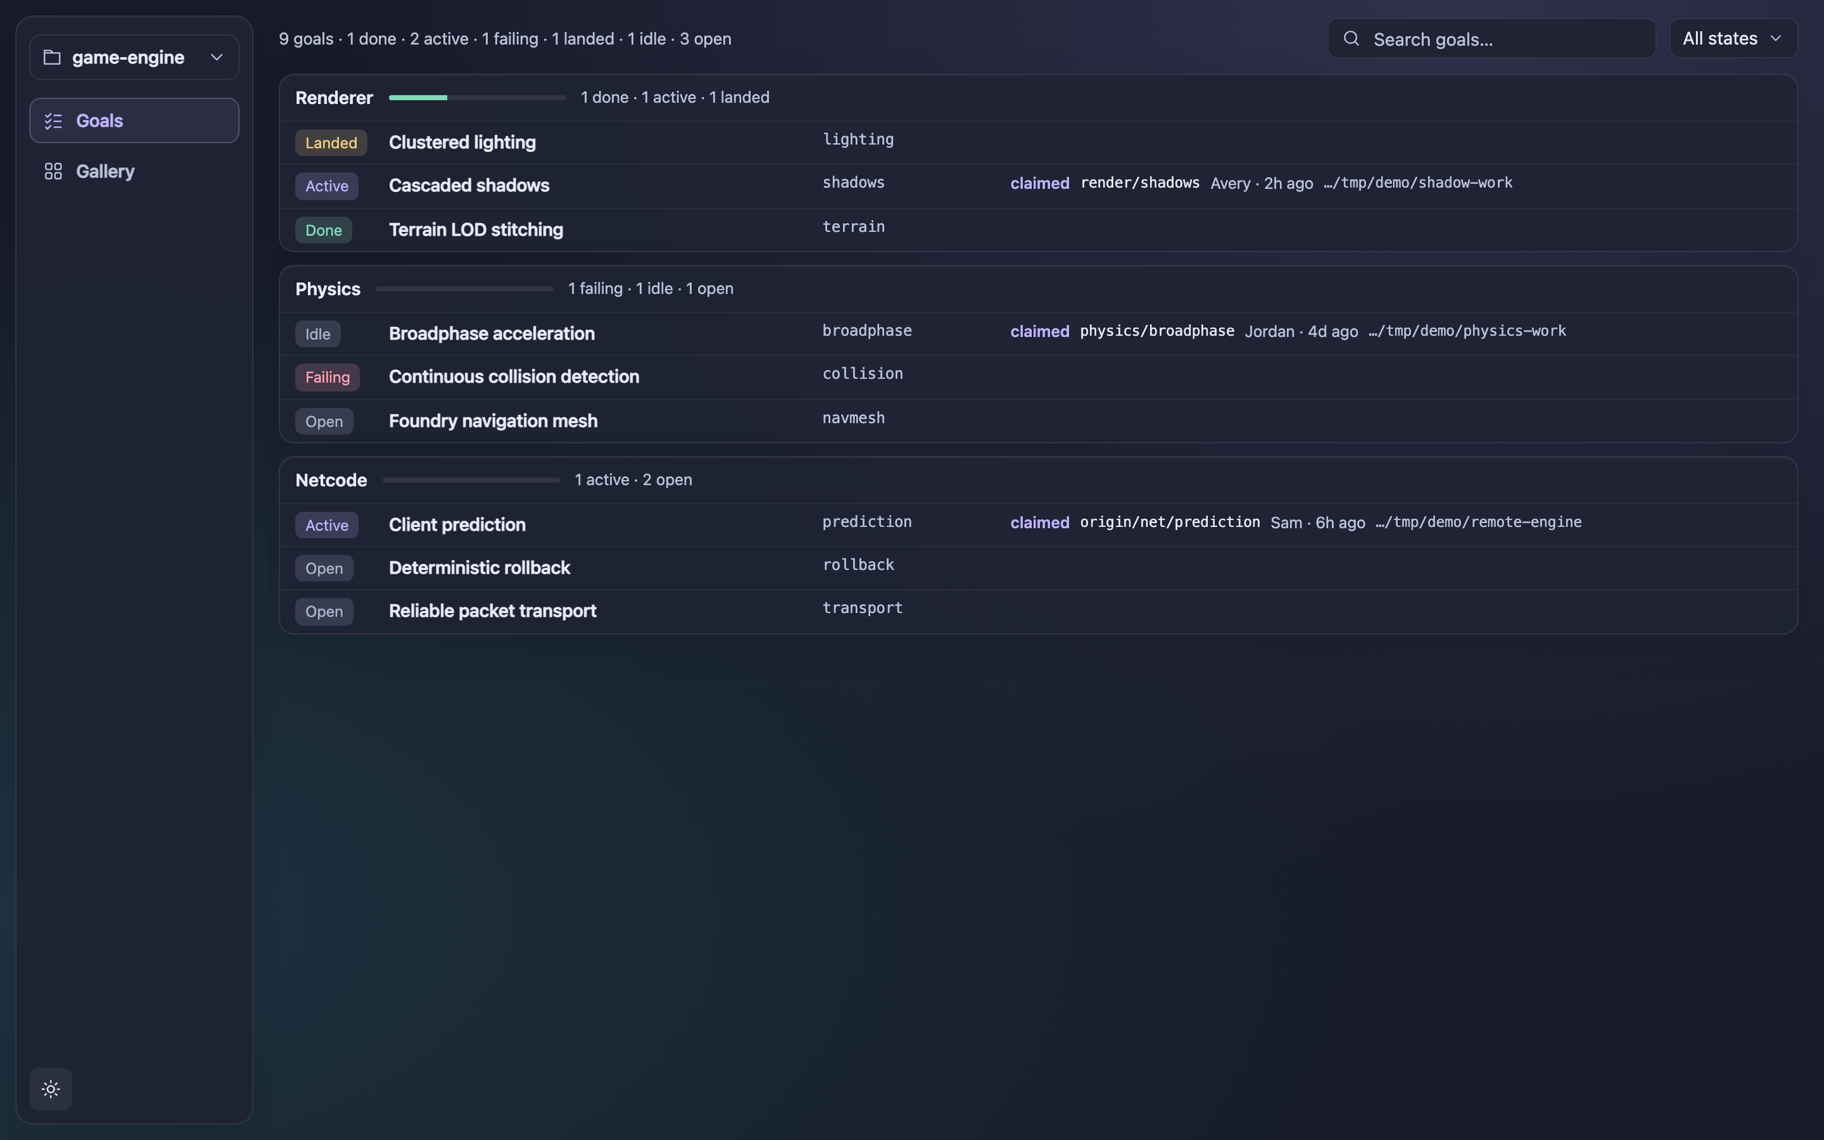
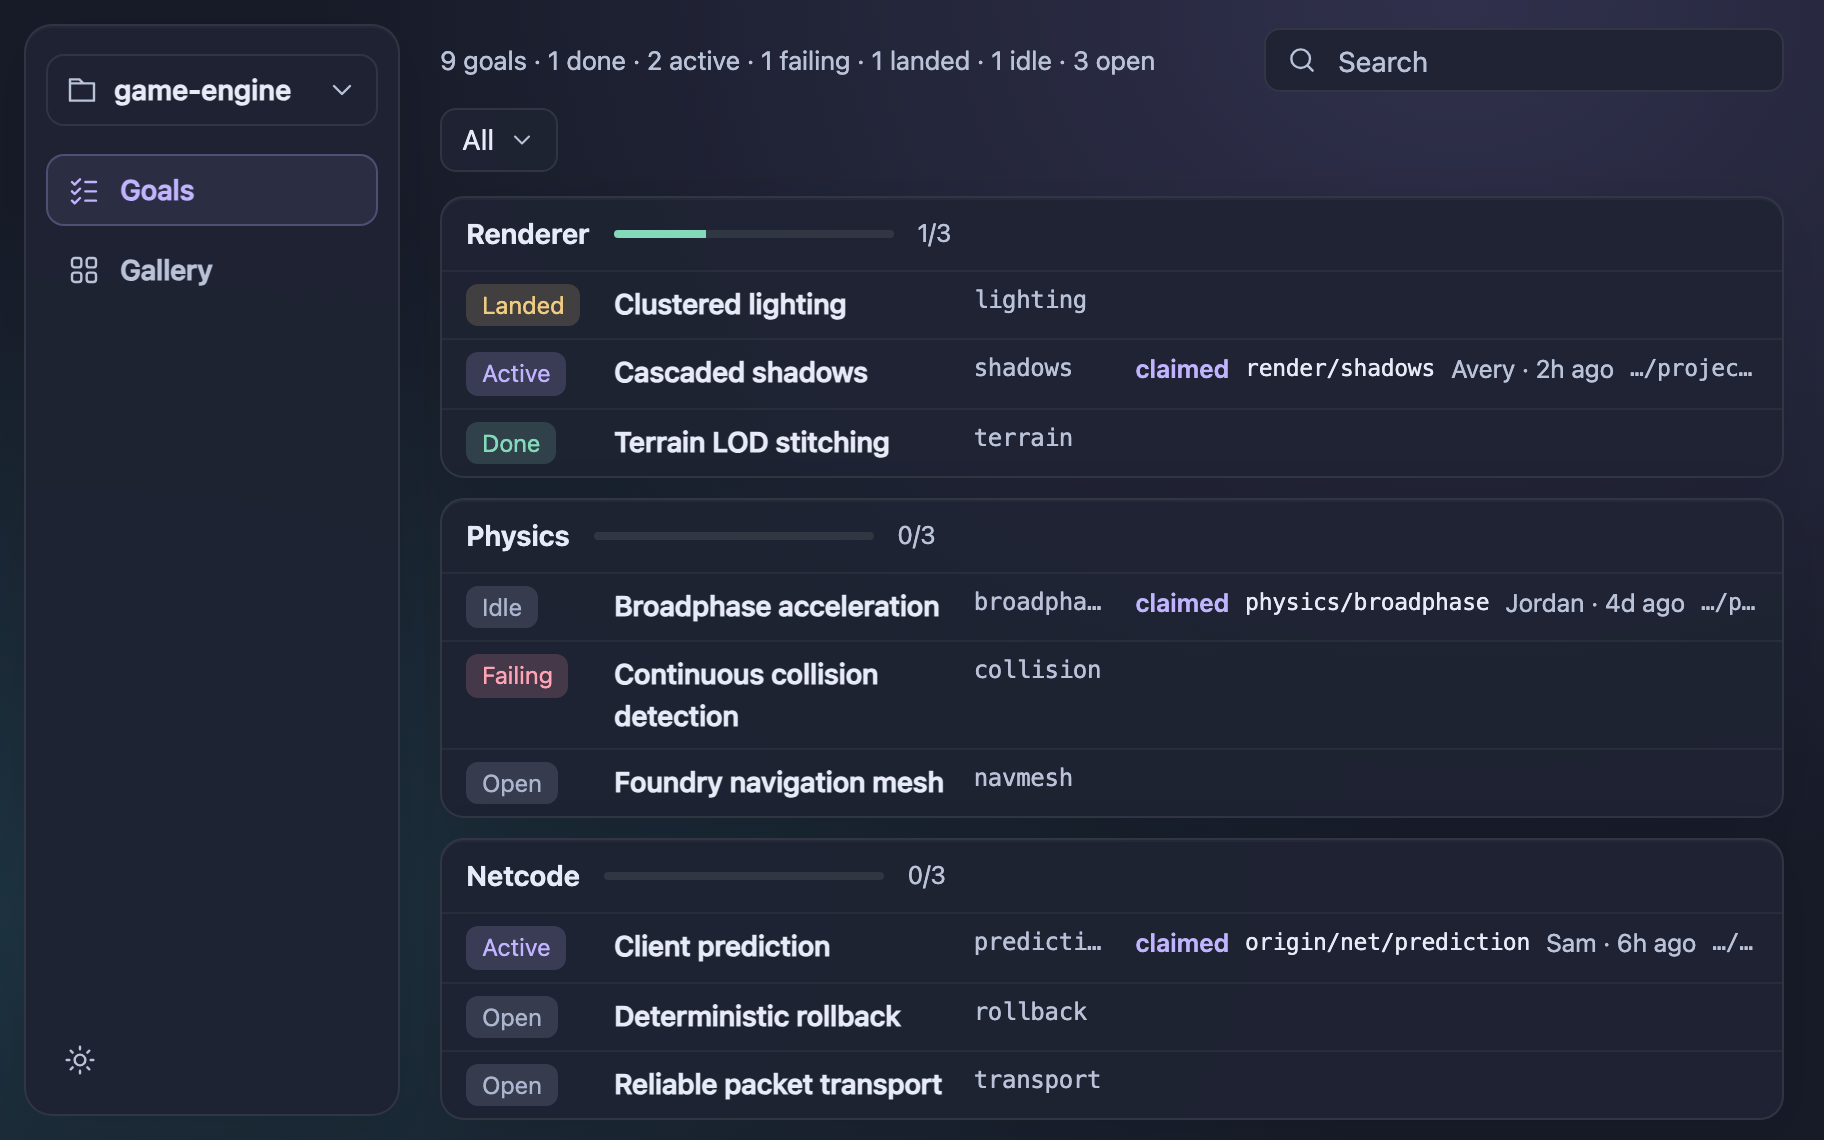
Regenerate screenshots from the sample project; tighten README

diff --git a/README.md b/README.md
@@ -35,14 +35,14 @@ git add .whosaidso
 git commit -m 'Add records'
 ```
 
-Run `whosaidso install-hooks` once in each clone. Then claim a goal with `whosaidso start first-goal`; your commits carry its `Goal:` trailer. After committing work:
+Run `whosaidso install-hooks` once per clone. `whosaidso start first-goal` claims the goal; your commits then carry its `Goal:` trailer. After committing work:
 
 ```sh
 whosaidso goals
 whosaidso prove first-goal
 ```
 
-`prove` runs the check and records the result; commit it with your work. Attach a screenshot or video with `whosaidso media <goal> <file> <title>`.
+`prove` runs the check and records the result; commit it. Attach a screenshot or video with `whosaidso media <goal> <file> <title>`.
 
 ## Code search
 
@@ -55,7 +55,7 @@ whosaidso code deps src/main.cpp
 whosaidso code includers src/types.h
 ```
 
-`find` searches records, files and history. `grep` searches file text. `code defs` and `code refs` show where a name is defined and used; `code deps` and `code includers` show what a file includes and what includes it. Answers work for C, C++, Rust and Python out of the box; `whosaidso code import-scip <file>` adds exact answers from a SCIP index.
+`find` searches records, files and history; `grep` searches file text; `code defs`/`refs` find where a name is defined and used; `code deps`/`includers` show what a file includes and what includes it. C, C++, Rust and Python work out of the box; `whosaidso code import-scip <file>` adds exact answers from a SCIP index.
 
 ## Viewer
 
